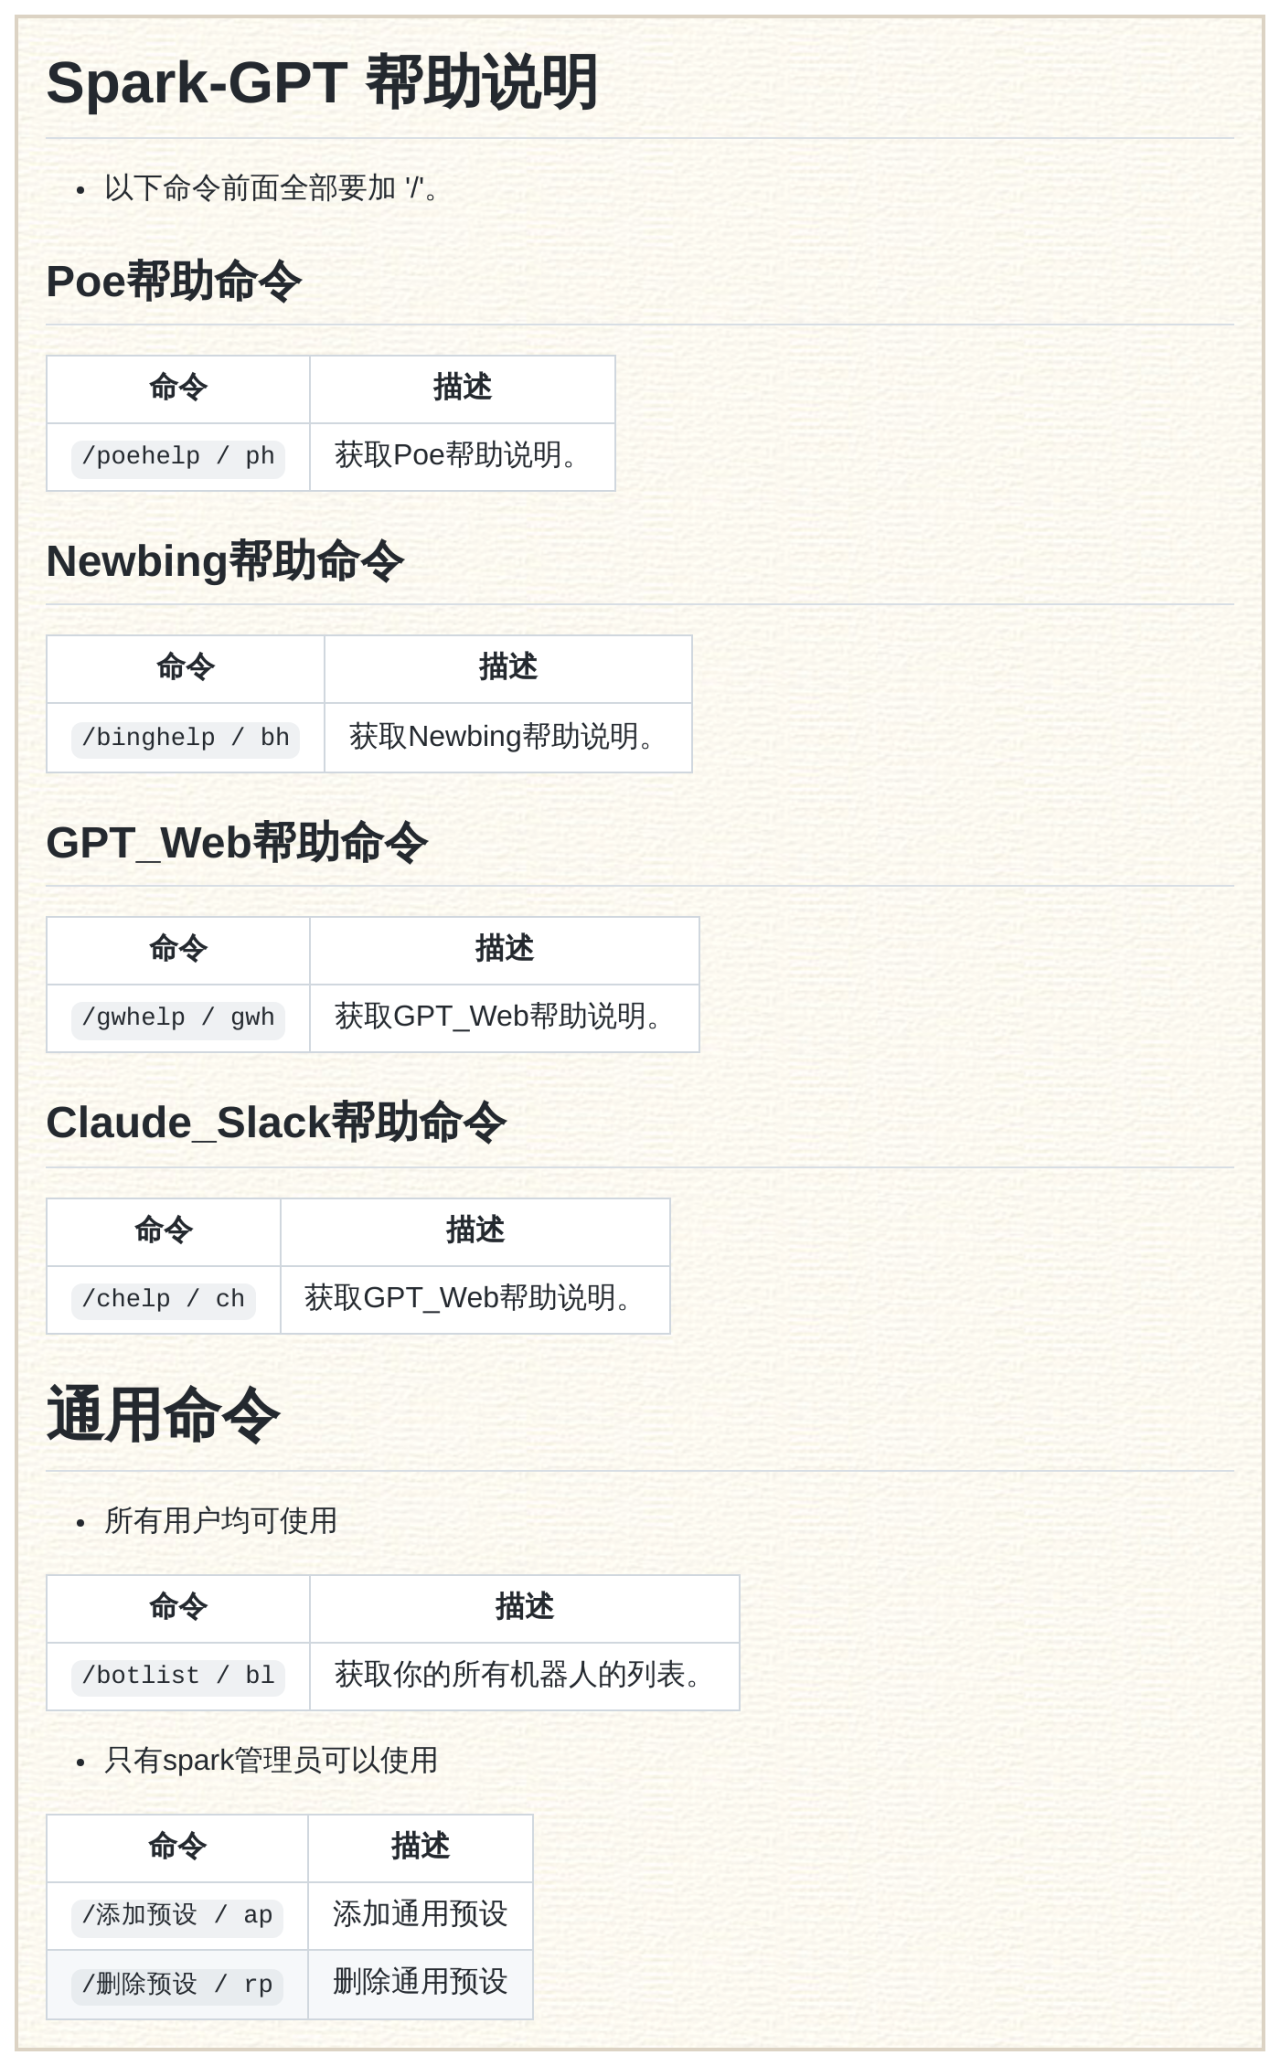
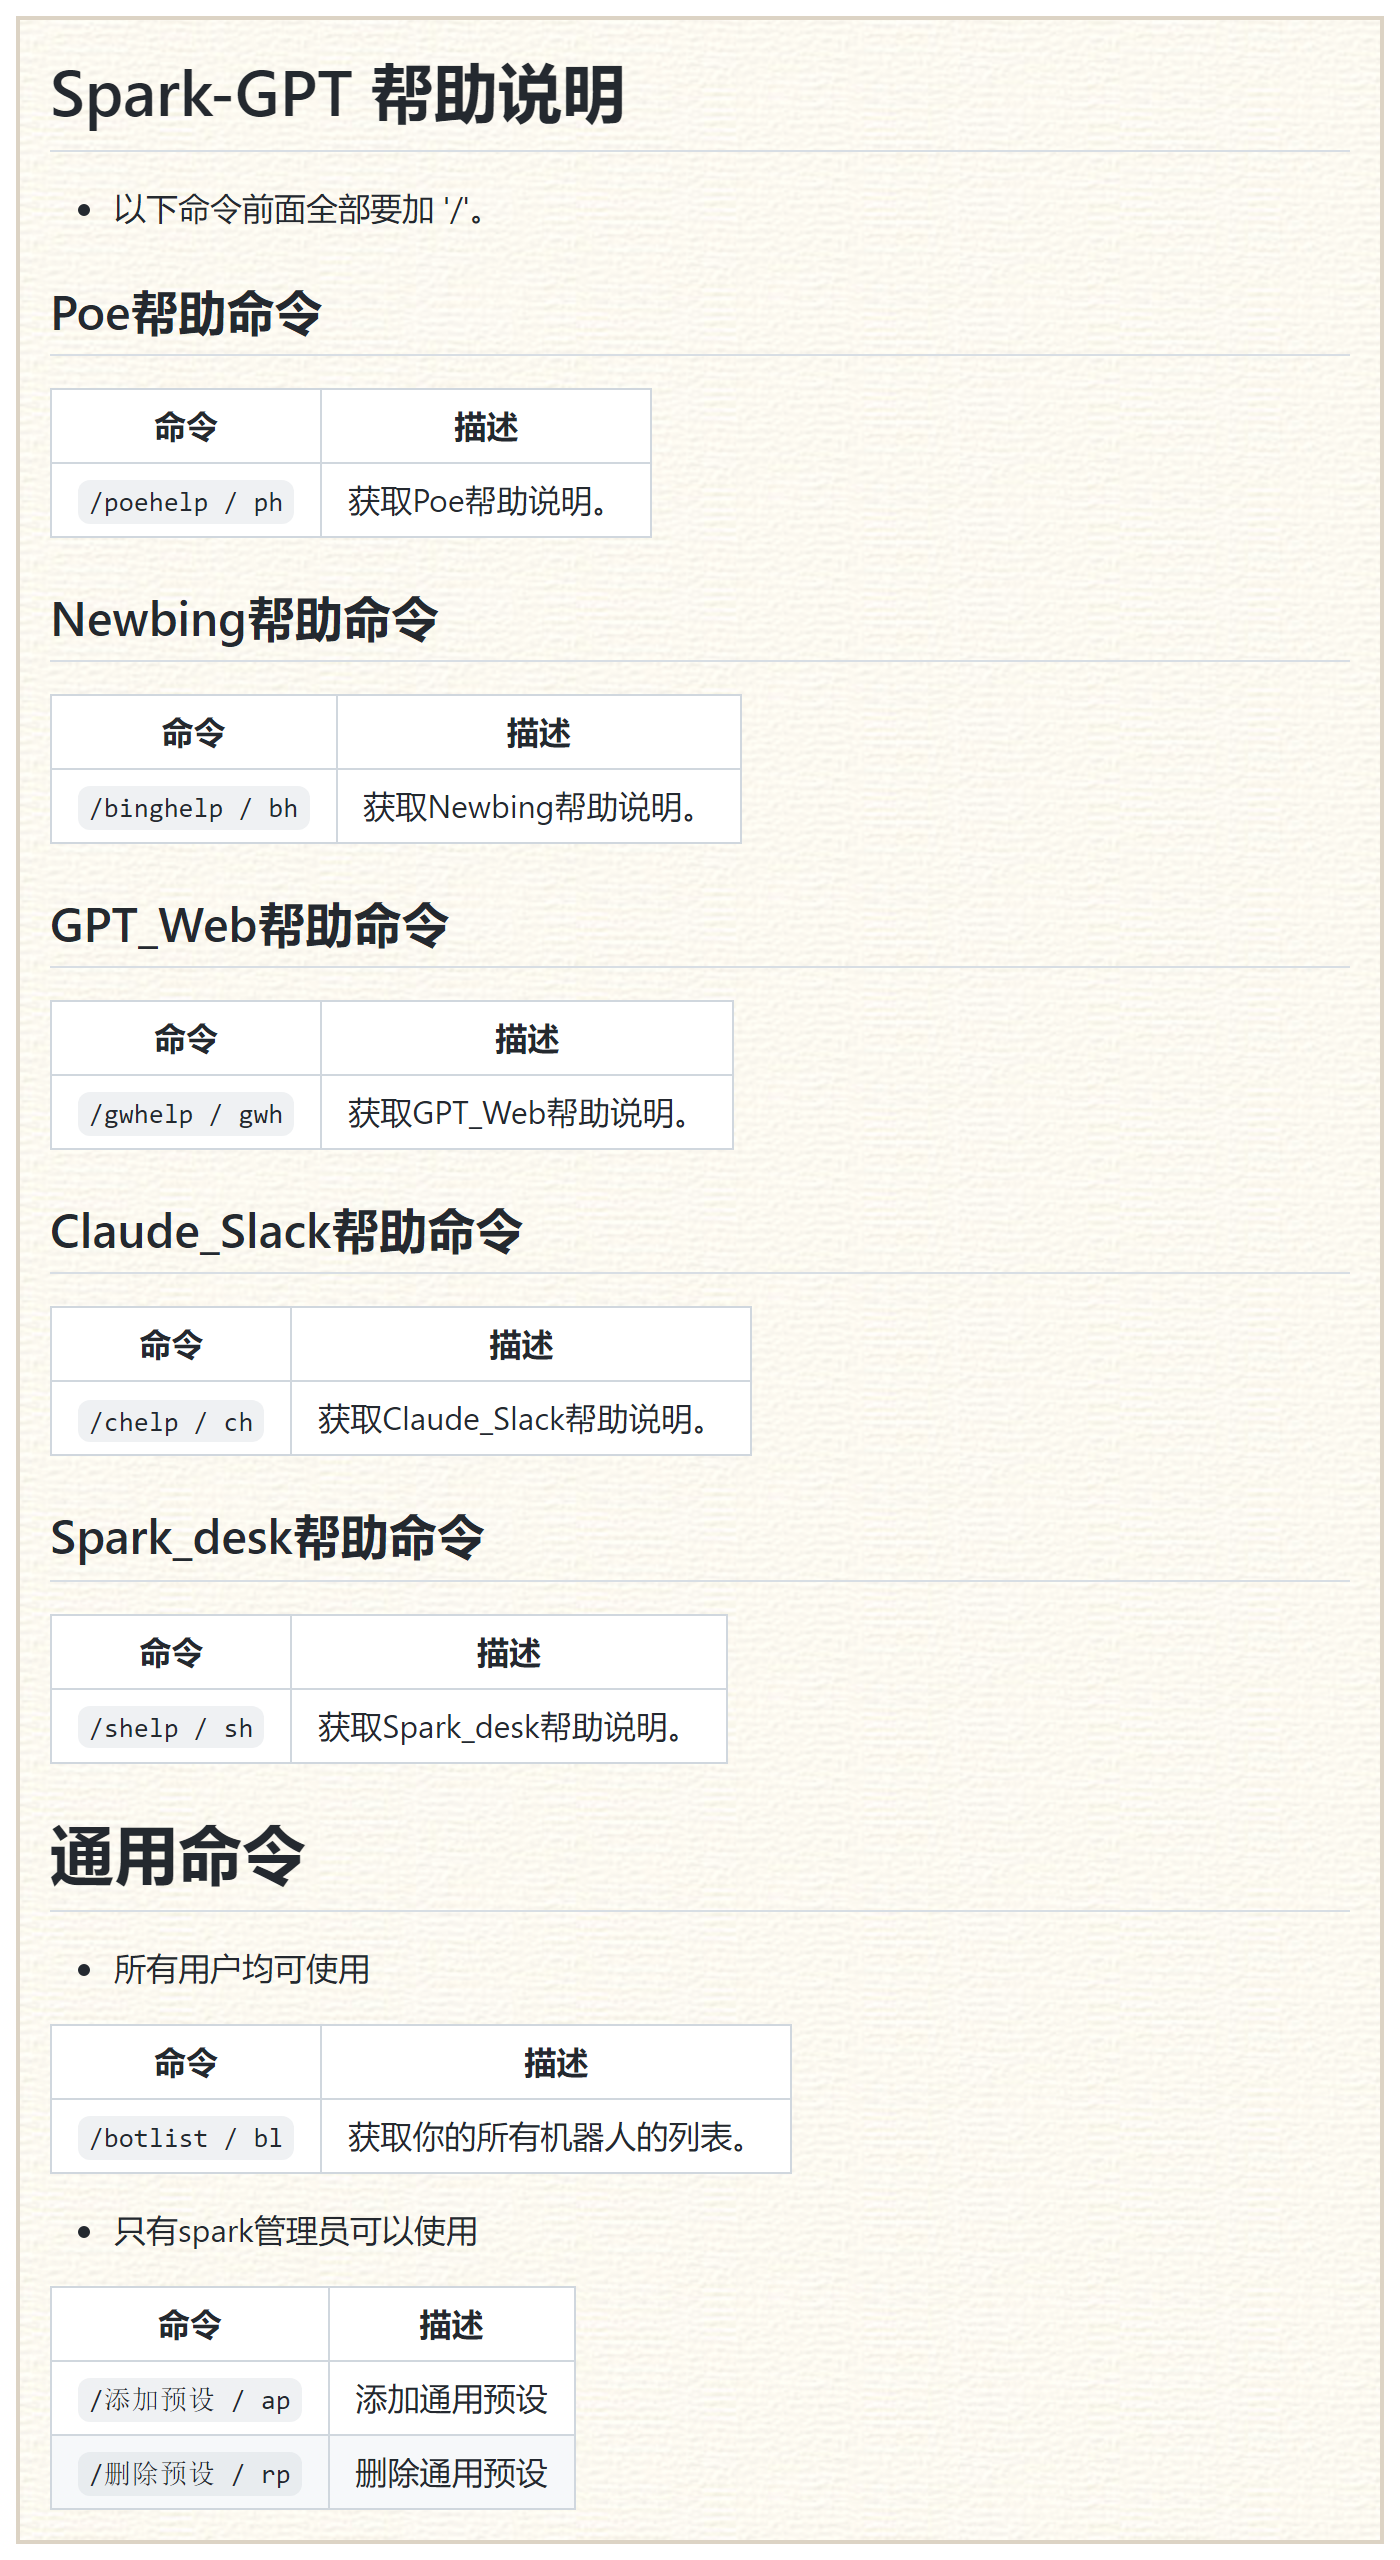
update

diff --git a/src/docs/Spark_GPT.md b/src/docs/Spark_GPT.md
@@ -22,14 +22,14 @@ copyright: canxin121版权所属，禁止随意转载
 
 <!-- more -->
 
-## :yum:功能特性:yum:
+## :yum:功能特性:yum
 
 - 汇聚众多来源的gpt，支持多平台使用
 - 方便而全面的使用功能，便捷的管理员管理项
 - 完善的使用逻辑和任务处理逻辑
 - 美观而实用的markdown图片渲染回复
 
-## :heart_eyes:功能实用说明:heart_eyes:
+## :heart_eyes:功能实用说明:heart_eyes
 
 ### Spark-GPT 聚合帮助说明
 
@@ -157,7 +157,6 @@ copyright: canxin121版权所属，禁止随意转载
 | --- | --- |
 | `/gwtalk / gwt + 你要询问的内容` | 对话功能，如果没创建机器人，对话将自动创建默认机器人。 |
 
-
 #### 机器人管理命令
 
 | 命令 | 描述 |
@@ -177,13 +176,13 @@ copyright: canxin121版权所属，禁止随意转载
 
 ### spark-gpt Cluade_Slack使用说明
 
-## 对话命令
+#### 对话命令
 
 | 命令 | 描述 |
 | --- | --- |
 | `/ctalk / ct + 你要询问的内容` | 对话功能，如果没创建机器人，对话将自动创建默认机器人。 |
 
-## 机器人管理命令
+#### 机器人管理命令
 
 | 命令 | 描述 |
 | --- | --- |
@@ -192,7 +191,38 @@ copyright: canxin121版权所属，禁止随意转载
 | `/cswitch / cs (+ 机器人名称)` | 切换到指定名称的机器人。 |
 | `/机器人名字 + 空格 + 你要询问的内容` | 指定机器人对话。 |
 
-## 管理员命令
+#### 管理员命令
+
+### spark-gpt Spark_desk使用说明
+
+- !!! 以下命令前面全部要加 '/' !!!  
+
+- 问答功能均支持以下特性：
+- 可以通过回复机器人的最后一个回答来继续对话，而无需命令；可以回复 "(清除/清空)(对话/历史)"或 "刷新对话" 或 "清除对话历史"来清空对话；  
+- 可以通过建议回复的数字索引来使用建议回复。
+
+#### 对话命令
+
+| 命令 | 描述 |
+| --- | --- |
+| `/sparktalk / st + 你要询问的内容` | 对话功能，如果没创建机器人，对话将自动创建默认机器人。 |
+| `/机器人名字 + 空格 + 你要询问的内容` | 指定机器人对话。 |
+
+#### 机器人管理命令
+
+| 命令 | 描述 |
+| --- | --- |
+| `/screate / sc` | 创建机器人。 |
+| `/sparkremove / sr (+ 机器人名称)` | 删除指定名称的机器人。 |
+| `/sparkswitch / ss (+ 机器人名称)` | 切换到指定名称的机器人。 |
+
+#### 管理员命令
+
+- 仅限spark_desk管理员使用
+
+| 命令 | 描述 |
+| --- | --- |
+| `/scp / schangeprompt` | 切换自动创建的默认预设。 |
 
 - 仅限poe管理员使用
 
@@ -200,9 +230,9 @@ copyright: canxin121版权所属，禁止随意转载
 | --- | --- |
 | `/ccp / cchangeprompt` | 切换自动创建的默认预设。 |
 
-## :dizzy_face:安装:dizzy_face:
+## :dizzy_face:安装:dizzy_face
 
-### step.1:yellow_heart:
+### step.1:yellow_heart
 
 #### nb安装  
 
@@ -216,7 +246,7 @@ nb plugin install nonebot-plugin-spark-gpt
 pip install nonebot-plugin-spark-gpt
 ```
 
-### step.2:blue_heart:
+### step.2:blue_heart
 
 > 用于poe的稳定实现和render的渲染图片
 
@@ -224,7 +254,7 @@ pip install nonebot-plugin-spark-gpt
 playwright install chromium
 ```
 
-## :punch:配置:punch:
+## :punch:配置:punch
 
 > （在.env或你是用的.env_*中修改）  
 
@@ -346,7 +376,7 @@ gpt_web_urlable = True
   首先参照 [slack app配置](https://ikechan8370.com/archives/chatgpt-plugin-for-yunzaipei-zhi-slack-claude )进行配置，获取到其中的（OAuth & Permissions中）User OAuth Token（xoxp-5258801~~,注意是xoxp不是xoxb）作为slack_user_token（必填）
 
 - channel_id获取:  
-然后进入slack聊天界面,选择(创建)一个专用的频道，将claude拉进这个频道。此时记下这个频道的网址中的channel_id（必填）（比如在这个链接中 https://app.slack.com/client/T057LPK0SP2/C0579MZR3LH/thread/C0579MZR3LH-1683734208.221819 ，channel_id是C0579MZR3LH，及thread前面的两个/中的内容）
+然后进入slack聊天界面,选择(创建)一个专用的频道，将claude拉进这个频道。此时记下这个频道的网址中的channel_id（必填）（比如在这个链接中 <https://app.slack.com/client/T057LPK0SP2/C0579MZR3LH/thread/C0579MZR3LH-1683734208.221819> ，channel_id是C0579MZR3LH，及thread前面的两个/中的内容）
 
 ```md
 #三个必填配置
@@ -367,16 +397,40 @@ claude_slack_urlable = True
 
 ```
 
-## :gift:示例:gift:
+### Spark_desk配置
+
+- 由于讯飞星火网页端设置了禁止调试，所以需要借助抓包软件(手机端小黄鸟,stream，loon等等，电脑端fiddler都可以)，在"https://xinghuo.xfyun.cn/iflygpt/u/chat_message/chat"这个请求中的请求头中提取提取cookie(必填), 请求体中提取fd, GtToken(如果无法正常使用，请填写这两个)
+
+```md
+#必填
+spark_desk_cookie = ""
+#如果不能使用，请填写
+spark_desk_fd = ""
+spark_desk_gtToken = ""
+
+#下面的配置会覆盖通用配置
+spark_desk_superusers = ["123456","132145"]
+spark_desk_mode = "white"
+spark_desk_whitelist = ["123","456"]
+spark_desk_blacklist = ["123","456"]
+spark_desk_limit = 350
+spark_desk_picable = True
+spark_desk_urlable = True
+```
+
+## :gift:示例:gift
 
 | Image 1 | Image 2 |
 |:-------:|:-------:|
 | ![1](/resource/spark/demo(1).png) | ![2](/resource/spark/demo(2).png) |
 | ![3](/resource/spark/demo(3).png) | ![4](/resource/spark/demo(4).png) |
 | ![5](/resource/spark/demo(5).png) | ![6](/resource/spark/demo(6).png) |
+| ![7](/resource/spark/demo(7).png) |
 
-## :balloon:更新:balloon:
+## :balloon:更新:balloon
 
-- 2023.5.11:  
+- 2023.5.11 0.1.4:  
+    1.增加讯飞星火模型(Spark_desk)  
+- 2023.5.11 0.1.3:  
     1.增加claude_slack  
     2.修复一些小bug  
